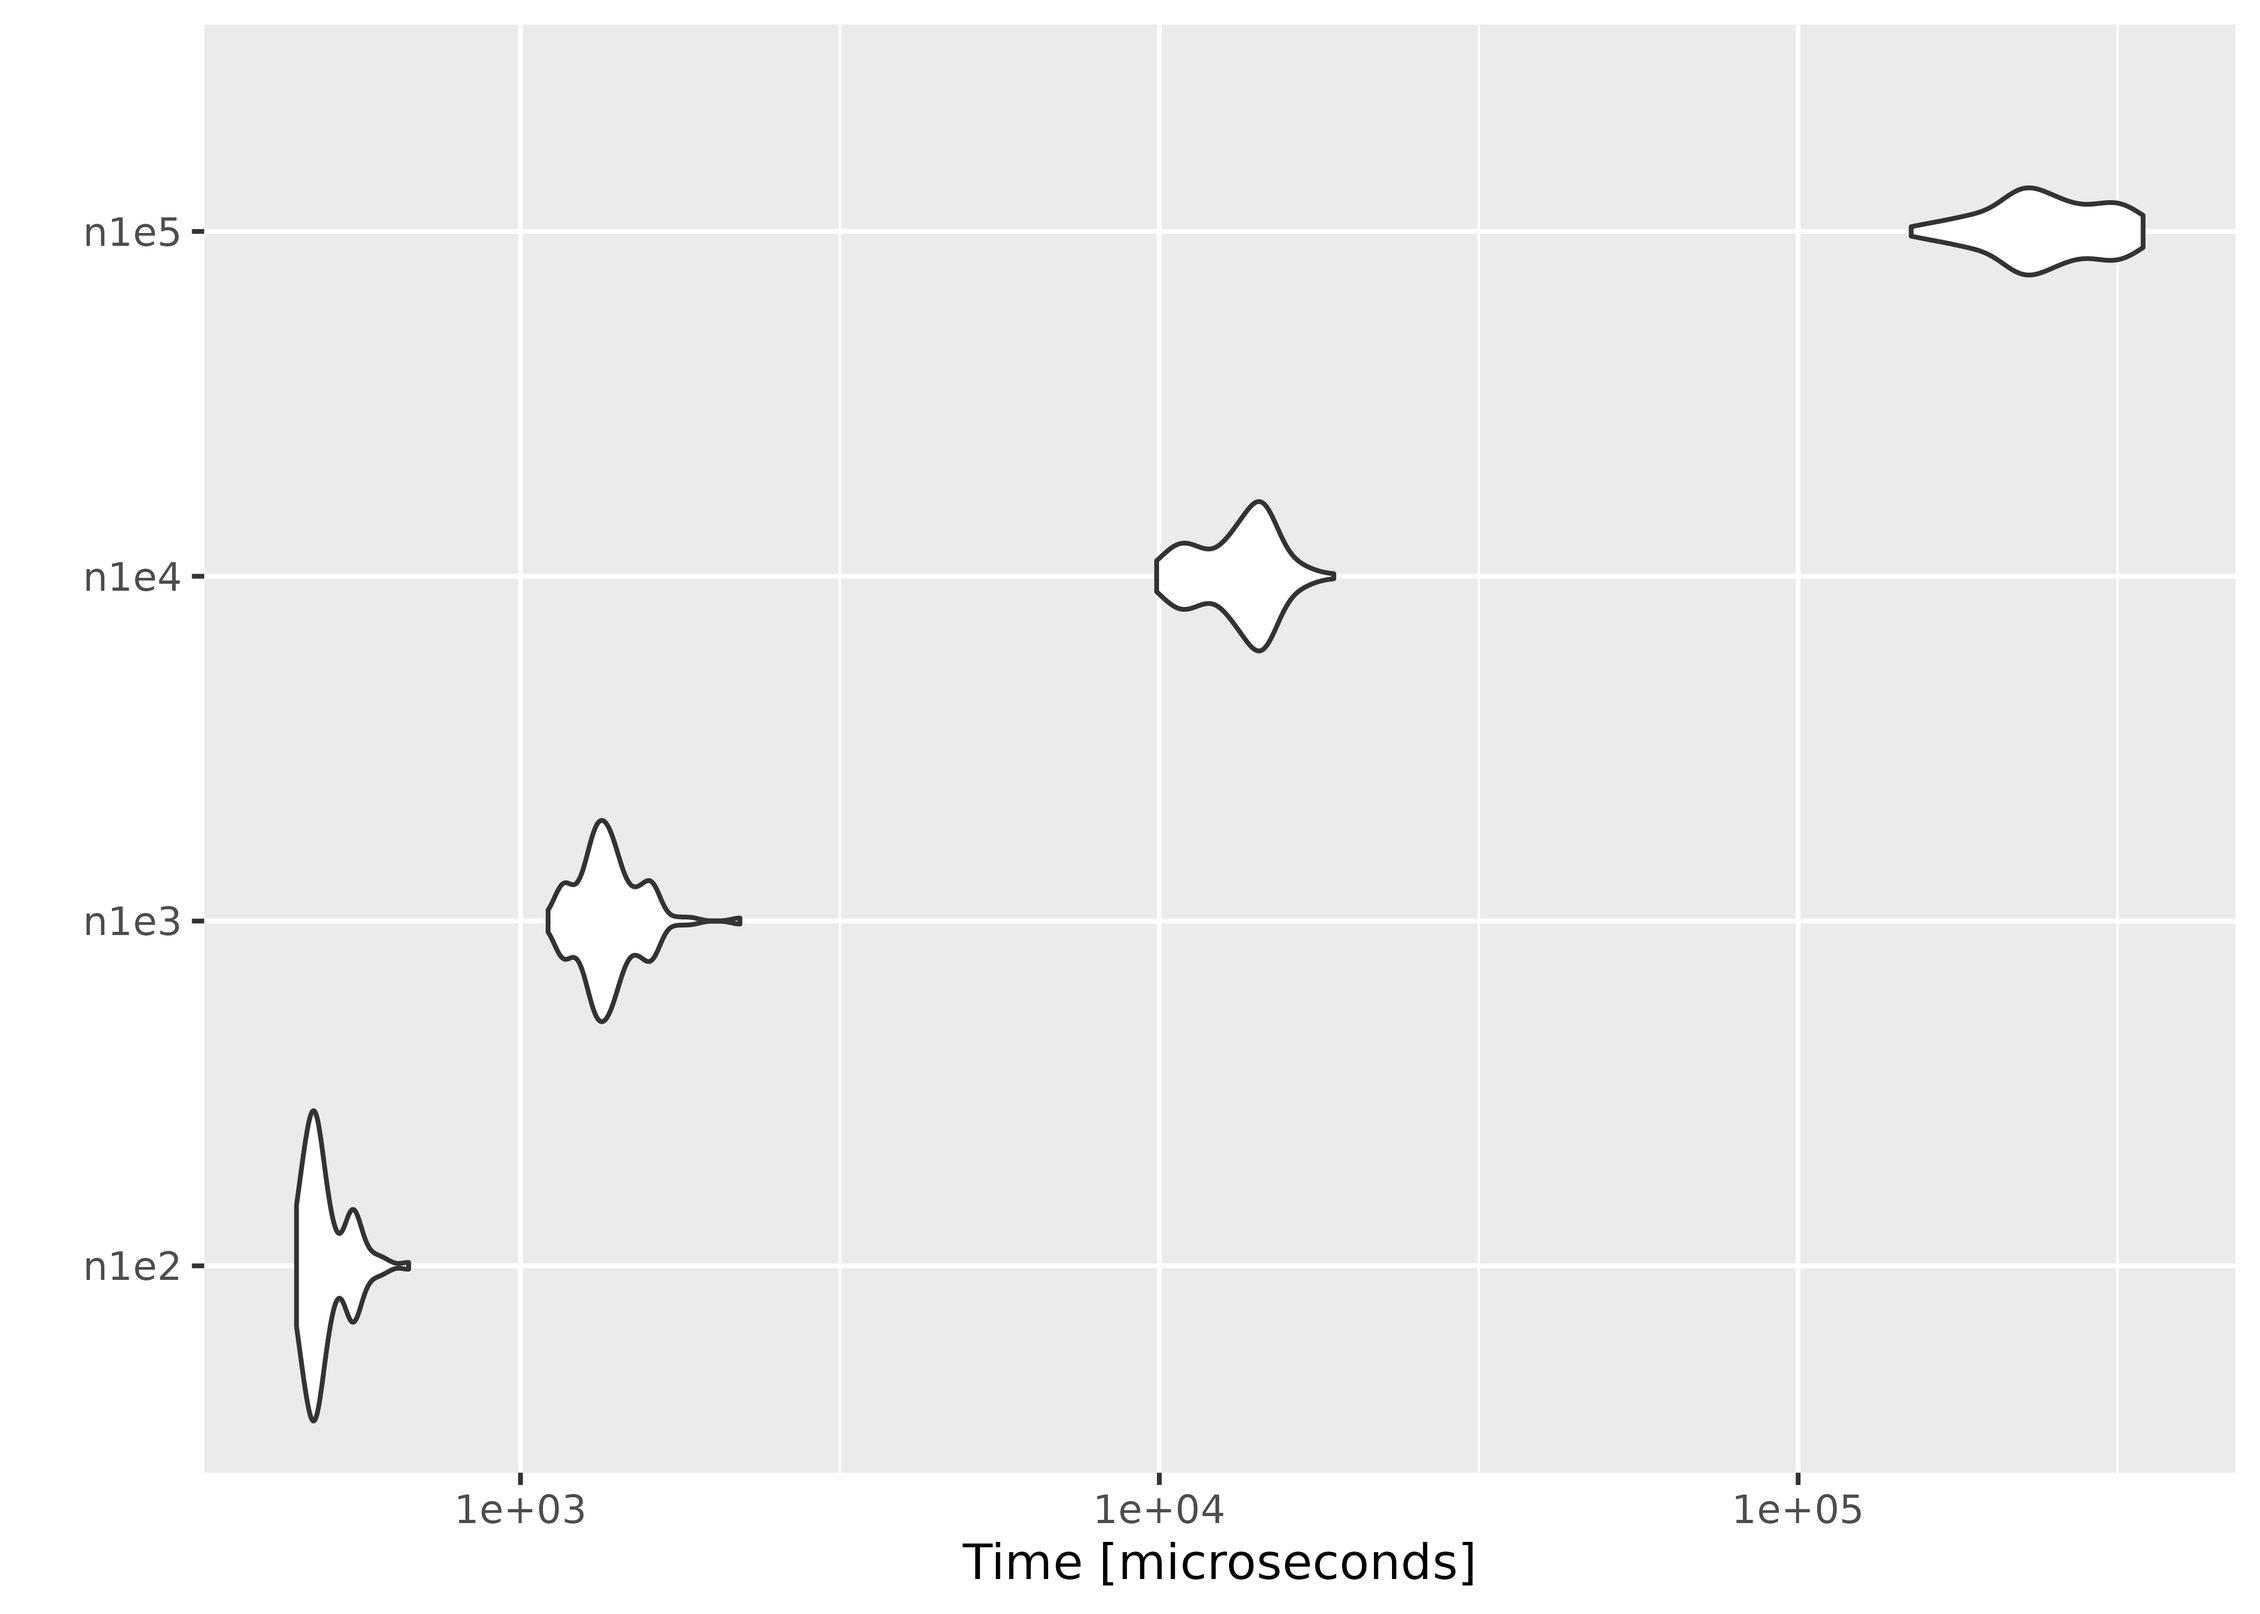
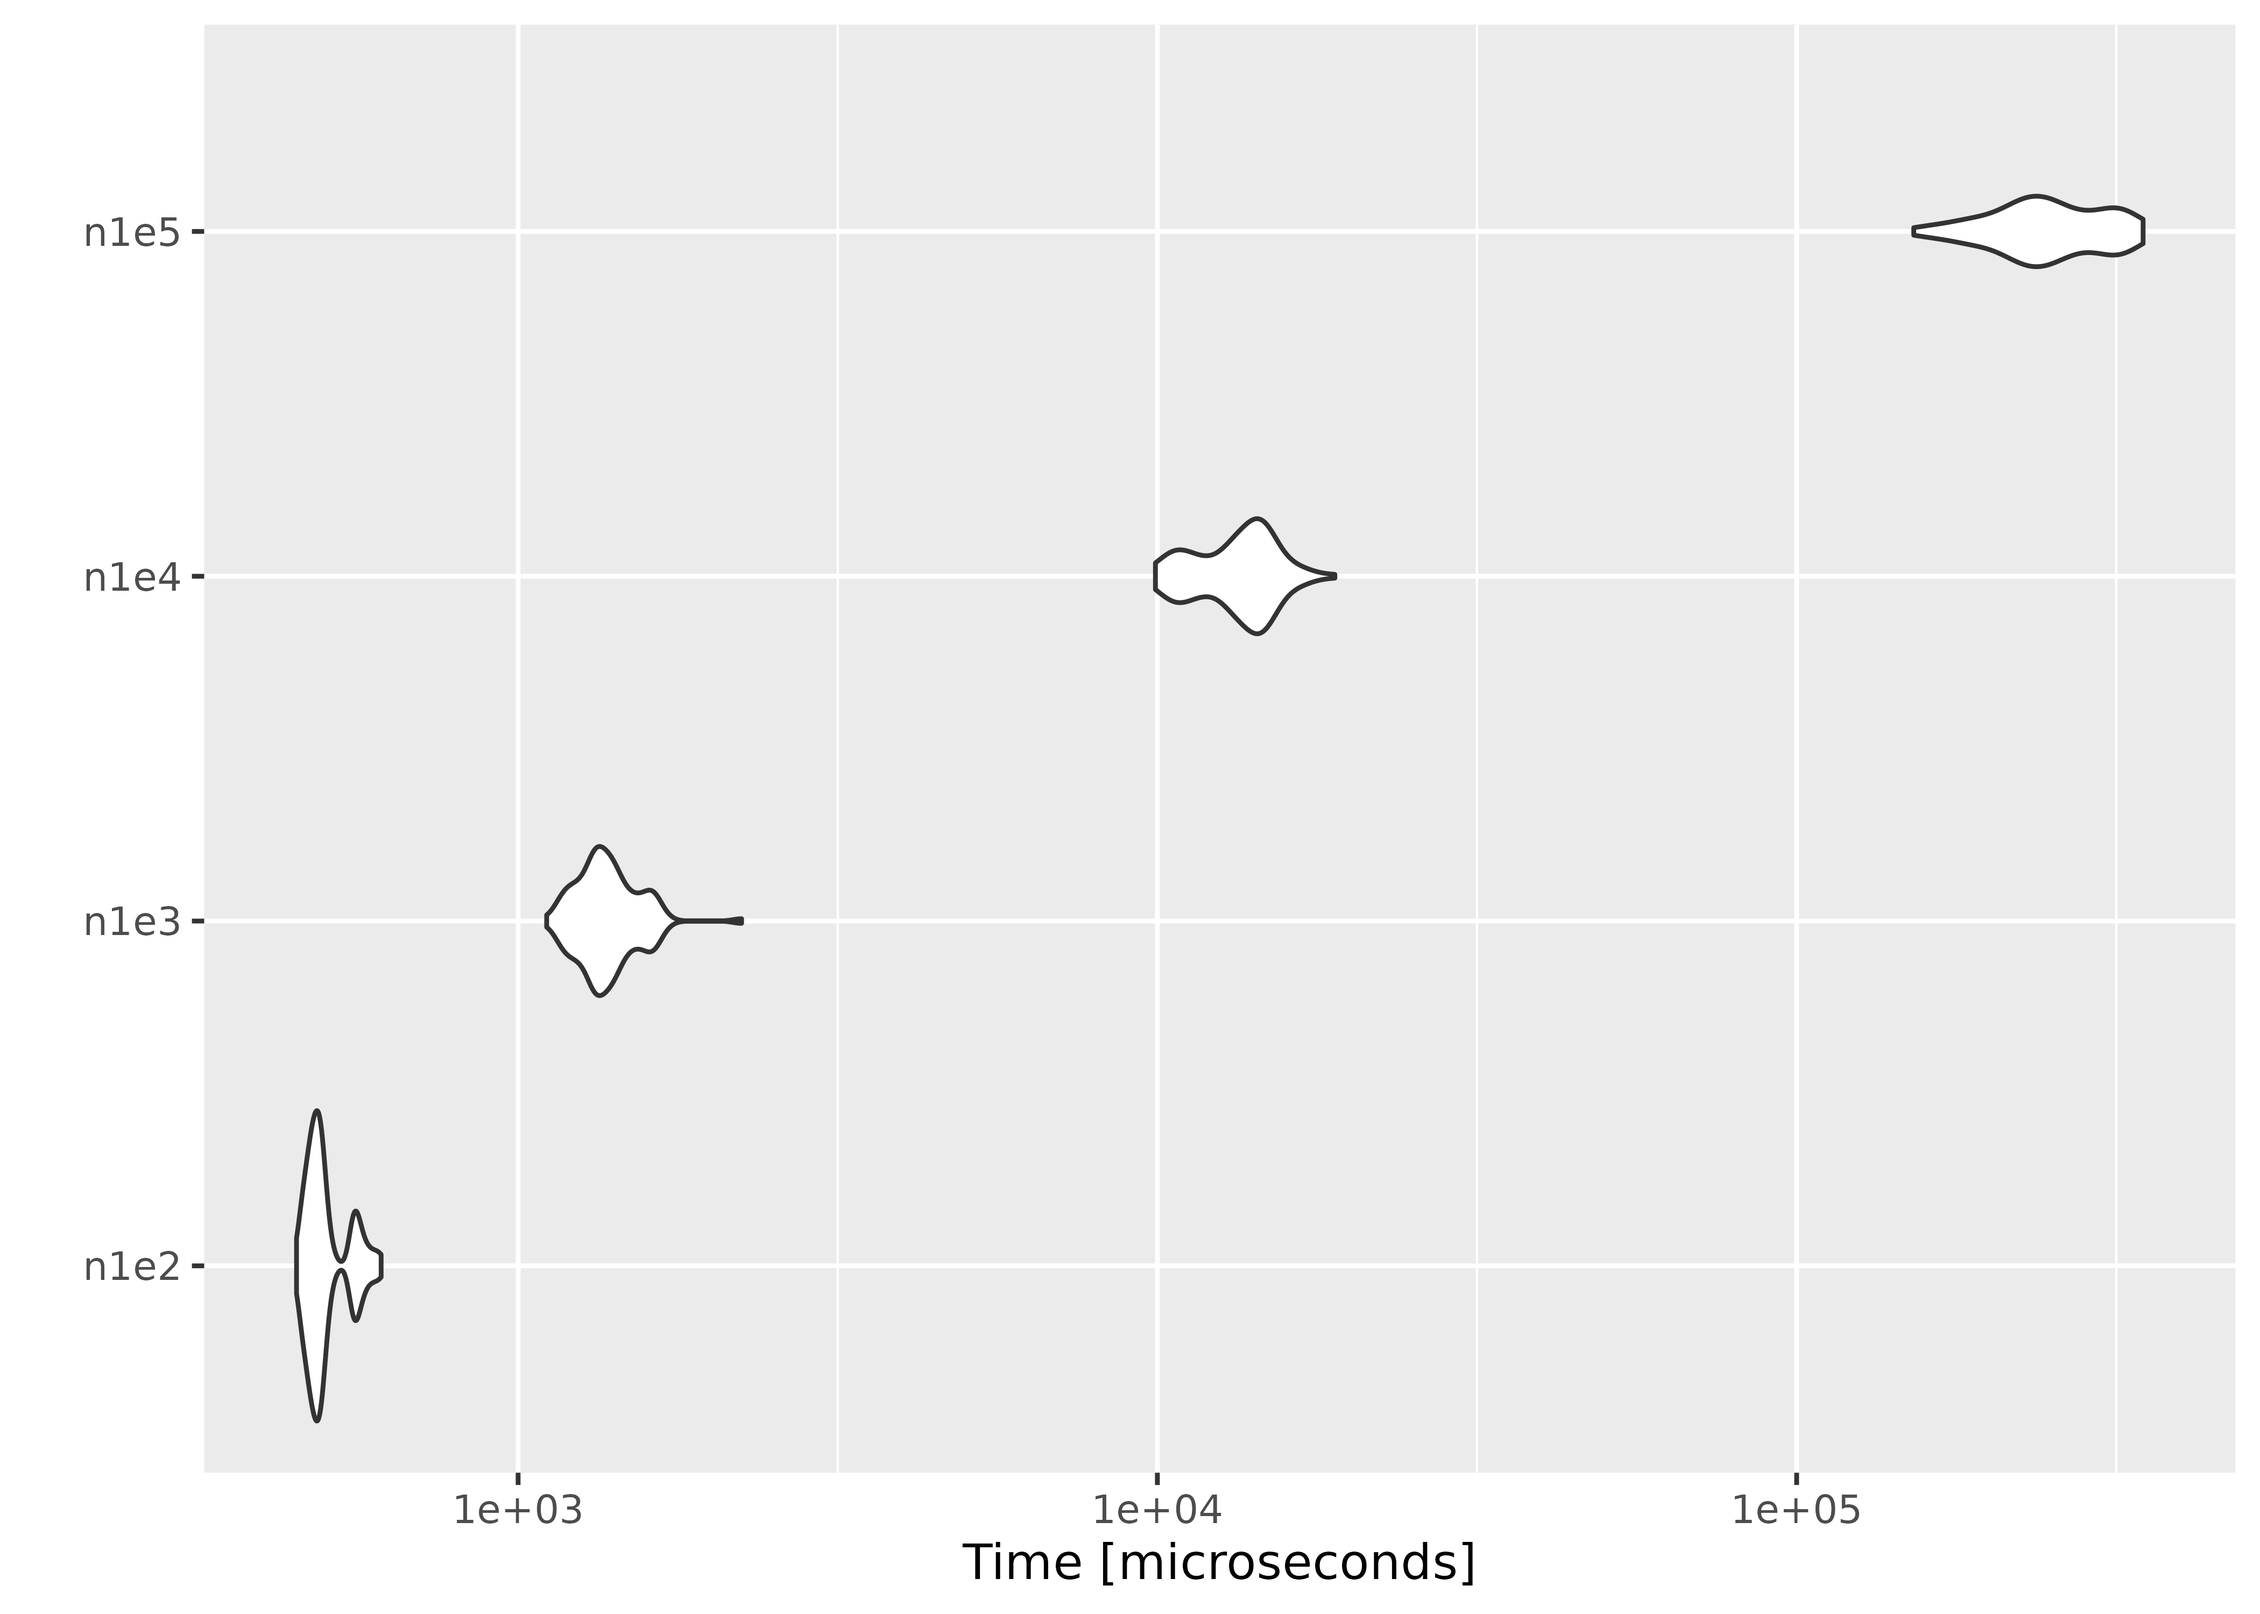
Deploying to gh-pages from @ ropensci/melt@bbf64641e72edbb563c7f080217dac37d103bdaa 🚀

diff --git a/articles/performance.html b/articles/performance.html
@@ -138,11 +138,11 @@ parameters increases with the number of observations fixed.</p>
 <div class="sourceCode" id="cb2"><pre class="downlit sourceCode r">
 <code class="sourceCode R"><span><span class="va">result</span></span>
 <span><span class="co">#&gt; Unit: microseconds</span></span>
-<span><span class="co">#&gt;  expr        min          lq        mean     median          uq        max</span></span>
-<span><span class="co">#&gt;  n1e2    446.081    465.8835    495.8039    479.854    519.6285    668.296</span></span>
-<span><span class="co">#&gt;  n1e3   1104.529   1294.3830   1383.0743   1355.547   1447.3480   2205.631</span></span>
-<span><span class="co">#&gt;  n1e4   9904.773  11772.1245  13354.1614  13772.668  14513.6695  18757.025</span></span>
-<span><span class="co">#&gt;  n1e5 150297.796 217099.7600 249114.9236 238225.505 290949.4510 346746.772</span></span>
+<span><span class="co">#&gt;  expr        min          lq        mean      median         uq        max</span></span>
+<span><span class="co">#&gt;  n1e2    450.191    474.7715    501.2155    488.4915    507.096    610.589</span></span>
+<span><span class="co">#&gt;  n1e3   1108.409   1294.1510   1386.6622   1364.2015   1459.965   2236.655</span></span>
+<span><span class="co">#&gt;  n1e4   9930.356  11716.8250  13371.8347  13734.0450  14576.268  18952.867</span></span>
+<span><span class="co">#&gt;  n1e5 152478.108 218709.0160 250773.9374 242623.9545 287789.343 348303.004</span></span>
 <span><span class="co">#&gt;  neval</span></span>
 <span><span class="co">#&gt;    100</span></span>
 <span><span class="co">#&gt;    100</span></span>
@@ -179,16 +179,11 @@ likelihood at zero vectors of different sizes.</p>
 <div class="sourceCode" id="cb4"><pre class="downlit sourceCode r">
 <code class="sourceCode R"><span><span class="va">result2</span></span>
 <span><span class="co">#&gt; Unit: microseconds</span></span>
-<span><span class="co">#&gt;  expr        min         lq        mean      median          uq        max</span></span>
-<span><span class="co">#&gt;    p5    688.564    716.801    746.8118    741.2915    773.3665    840.828</span></span>
-<span><span class="co">#&gt;   p25   2528.072   2559.251   2613.2232   2576.4625   2611.8540   5236.251</span></span>
-<span><span class="co">#&gt;  p100  20471.521  20754.268  24623.4473  22946.1135  26534.4915  41295.007</span></span>
-<span><span class="co">#&gt;  p400 239397.105 258888.943 286494.9223 267199.9955 301981.2655 435516.906</span></span>
-<span><span class="co">#&gt;  neval</span></span>
-<span><span class="co">#&gt;    100</span></span>
-<span><span class="co">#&gt;    100</span></span>
-<span><span class="co">#&gt;    100</span></span>
-<span><span class="co">#&gt;    100</span></span>
+<span><span class="co">#&gt;  expr        min          lq        mean     median         uq        max neval</span></span>
+<span><span class="co">#&gt;    p5    695.559    721.8425    764.7746    749.394    784.269   1217.583   100</span></span>
+<span><span class="co">#&gt;   p25   2536.965   2571.8910   2633.7052   2587.029   2630.935   5355.437   100</span></span>
+<span><span class="co">#&gt;  p100  20498.040  20757.4900  24568.4670  22912.297  27116.344  41241.931   100</span></span>
+<span><span class="co">#&gt;  p400 239541.987 259428.9955 286964.5343 273571.349 302405.930 437181.160   100</span></span>
 <span><span class="fu"><a href="https://ggplot2.tidyverse.org/reference/autoplot.html" class="external-link">autoplot</a></span><span class="op">(</span><span class="va">result2</span><span class="op">)</span></span></code></pre></div>
 <p><img src="performance_files/figure-html/unnamed-chunk-6-1.png" width="100%" style="display: block; margin: auto;"></p>
 <p>On average, evaluating empirical likelihood with a 100000×10 or

diff --git a/news/index.html b/news/index.html
@@ -64,7 +64,7 @@
     </div>
 
     <div class="section level2">
-<h2 class="page-header" data-toc-text="1.11.0" id="melt-1110">melt 1.11.0<a class="anchor" aria-label="anchor" href="#melt-1110"></a></h2>
+<h2 class="page-header" data-toc-text="1.11.0" id="melt-1110">melt 1.11.0<small>2024-02-17</small><a class="anchor" aria-label="anchor" href="#melt-1110"></a></h2>
 <div class="section level3">
 <h3 id="minor-improvements-1-11-0">MINOR IMPROVEMENTS<a class="anchor" aria-label="anchor" href="#minor-improvements-1-11-0"></a></h3>
 <ul><li>Updated package vignette with the publication in the Journal of Statistical Software.</li>
